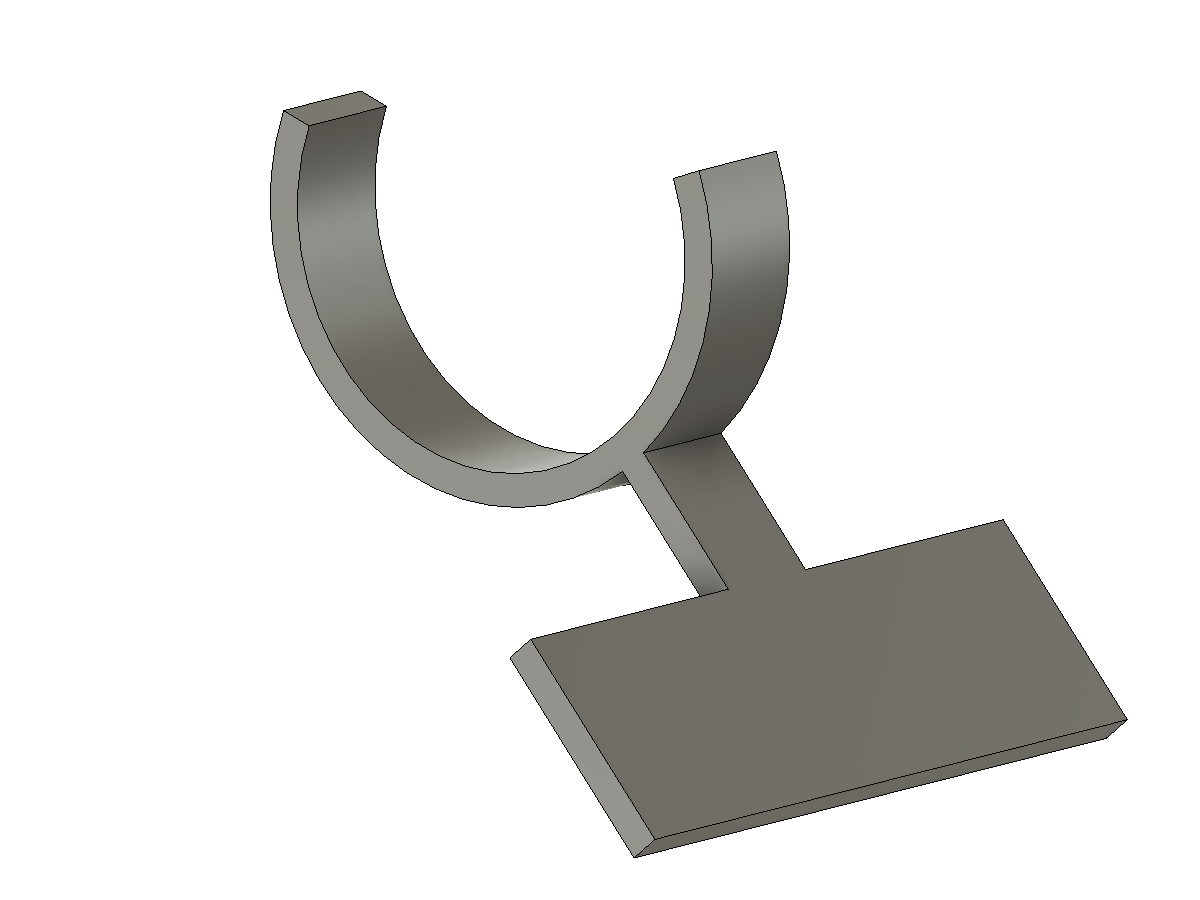
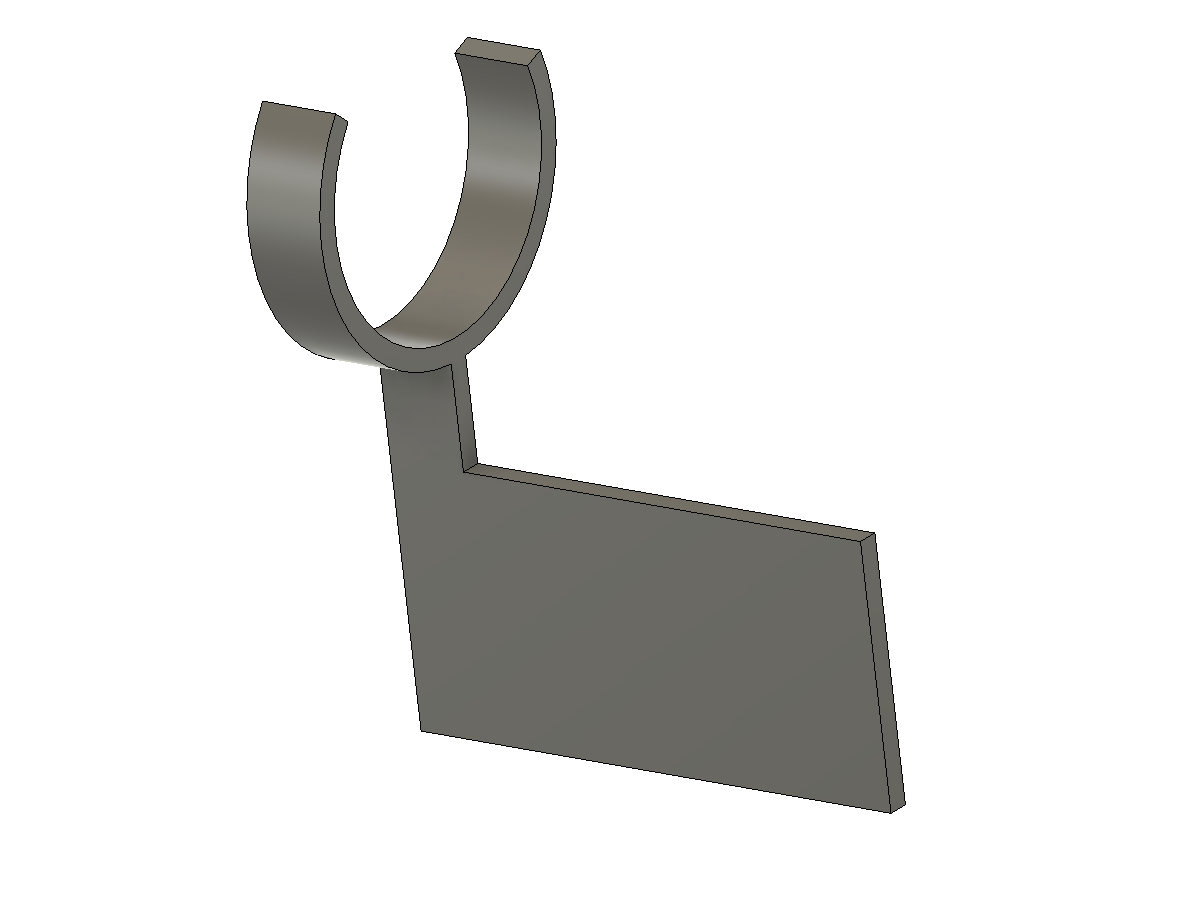
Docs: describe the label clip as built
The README row still described the first clip (55 x 17 mm face for 12 mm
tape, printed on support) and the page said the mouth spans 140 degrees
when it has always been 120. Both now match the script: 58 x 29 mm face
hung just past plumb for a rod above head height, flush with one side of
the ring, printed on that side with no supports. Fresh viewport render.

Claude-Session: https://claude.ai/code/session_01V2MKg8mv7pzCkS2jtD3ZVx

Changed region(s): [[0.185, 0.0311, 0.9558, 0.9644]]

diff --git a/docs/index.html b/docs/index.html
@@ -234,7 +234,8 @@
       <figcaption>Four hook rows on 1" pitch. The blade column is centred, so one bracket fits any upright.</figcaption>
     </figure>
   </div>
-  <p>The label clip is a C that snaps onto a rod from below. Its mouth spans 140 degrees at the top, which sounds like a lot until you notice the spool touches the rod only about 23 degrees off vertical — right in the middle of that opening. So the clip wraps the bottom of the rod, where nothing else is happening, and the spool never touches it.</p>
+  <p>The label clip is a C that snaps onto a rod from below. Its mouth spans 120 degrees at the top, which sounds like a lot until you notice the spool touches the rod only about 23 degrees off vertical — right in the middle of that opening. So the clip wraps the bottom of the rod, where nothing else is happening, and the spool never touches it.</p>
+  <p>The label hangs just past plumb, its lower edge leaned back ten degrees, because the rod sits at the top of the rails, about 76" up, and you read it looking upward. The face is flush with one side of the ring rather than centred on it, so laid on that side the whole clip sits on the bed and prints with no supports at all.</p>
   <p>There are two test coupons in the repo, and printing them is the whole reason this went together in two evenings instead of a week. The slot gauge is the hook plate on its own. The saddle coupon is an 8&nbsp;mm slice of the arm with both rod pockets. Between them they test every dimension that a spec sheet could lie about, for about 20&nbsp;g of plastic, before you commit four hours to a bracket.</p>
 
   <h2>Printing</h2>

diff --git a/README.md b/README.md
@@ -19,7 +19,7 @@ hardware; the brackets hook in like Ergotron's own shelves.
 | `exports/saddle_coupon.stl` | **Print second.** Thin slice of the two-saddle arm tip — verifies rod pocket diameter and drop-in fit against the real pipe/dowel. ~12 cm³. |
 | `exports/spool_cradle_bracket.stl` | The bracket. Print **two per shelf level**; it is symmetric, no left/right hand. |
 | `exports/rod_end_cap.stl` | Press-fit end cap for the rods — 42 mm flange stops the rod walking out of the saddles; 24 mm stem grips the measured 30 mm bore. Print **four per level**, flange down, no supports. |
-| `exports/rod_label_clip.stl` | Snap-on label clip: C-ring snaps onto a rod from below and slides under its spool; a 55 x 17 mm face (fits 12 mm label tape) tilts up toward you. Print **one per spool**, on its side (rotate 90° about X) with build-plate supports. |
+| `exports/rod_label_clip.stl` | Snap-on label clip: C-ring snaps onto a rod from below and slides under its spool; a 58 x 29 mm face (fits a 1" x 2-1/8" adhesive label) hangs just past plumb, aimed at a viewer looking up at a rod above head height. The face is flush with one side of the ring. Print **one per spool** on that flat side (rotate 90° about X): no supports, no brim. |
 | `cad/*.step`, `cad/*.f3d` | The same parts as CAD, exported by the same build run as the STLs. |
 
 ## Fit check workflow
